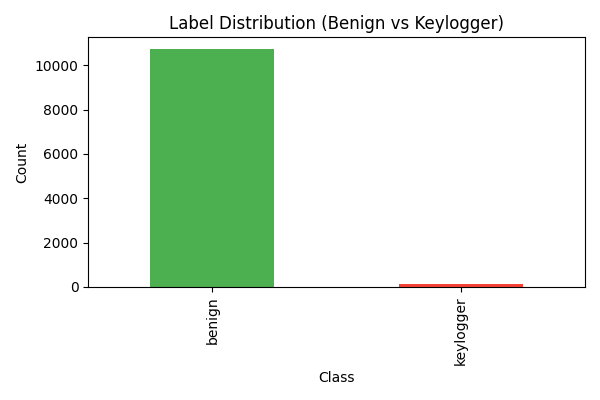
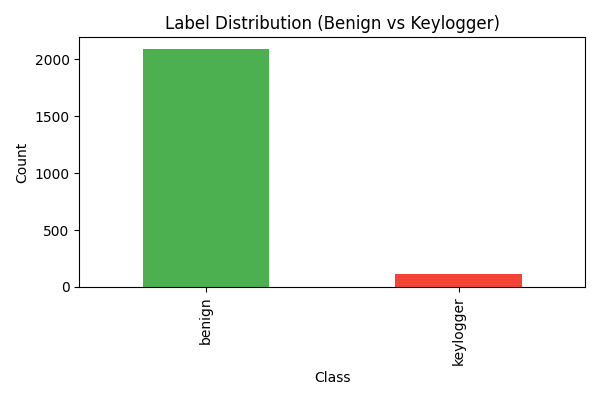
updated graphs of balanced data

diff --git a/plot_data.py b/plot_data.py
@@ -4,7 +4,7 @@ import seaborn as sns
 import joblib
 import os
 
-CSV_PATH = "combined_dataset.csv"
+CSV_PATH = "balanced_dataset.csv"
 MODEL_PATH = "retrained_detector.pkl"
 
 # =========================================================
